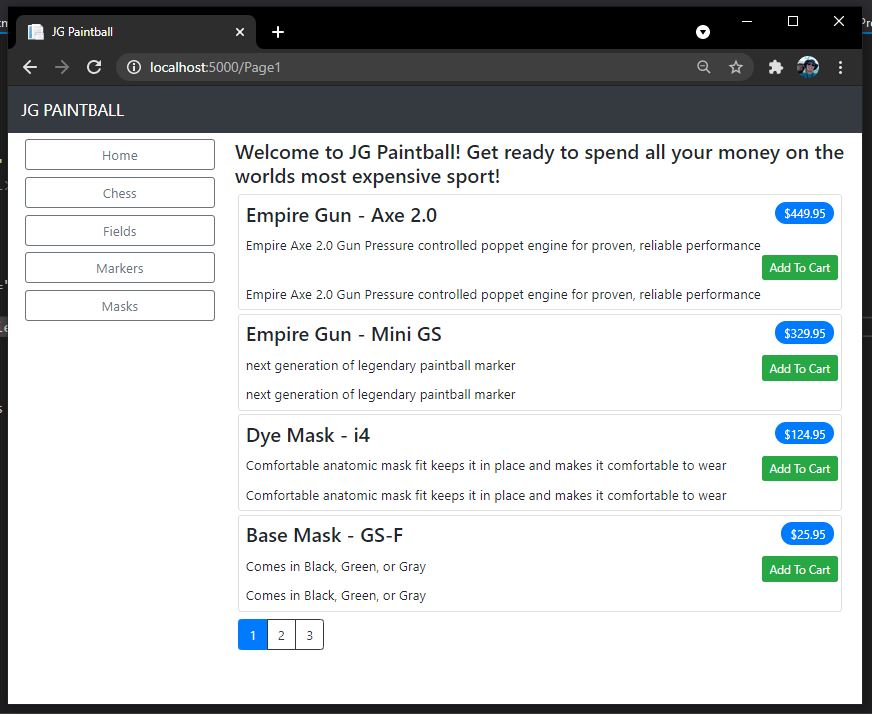
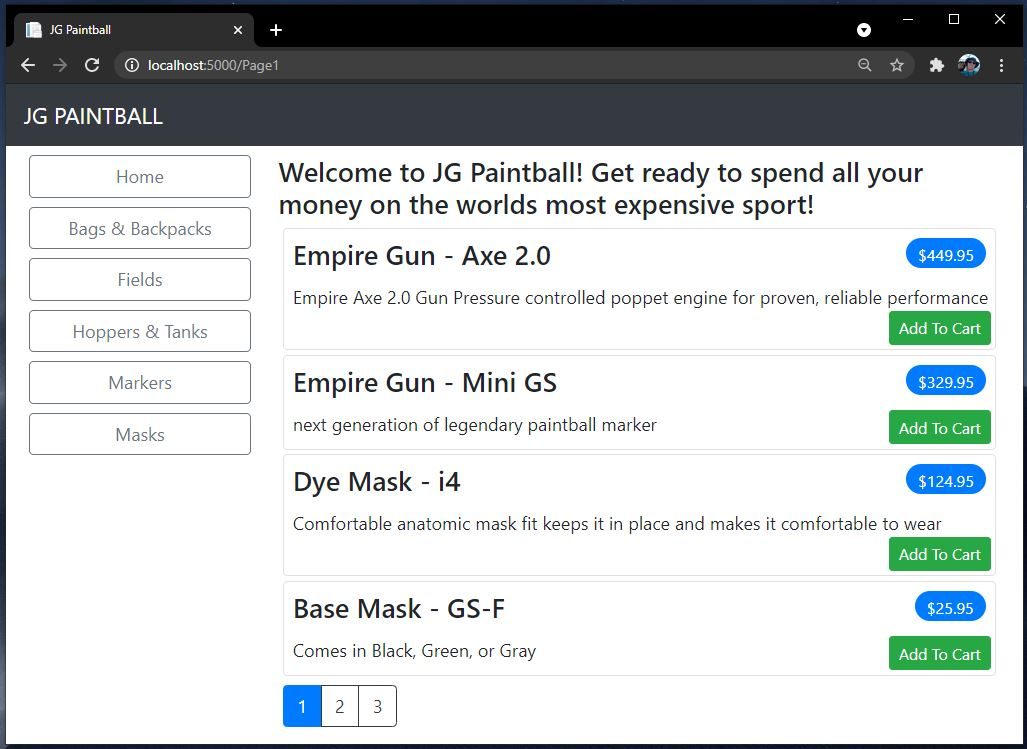
Updated some bugs with the layout and typos

Changed region(s): [[0.0, 0.0, 1.0, 1.0], [0.2167, 0.5854, 0.2477, 0.6162]]

diff --git a/JGPaintballShop/wwwroot/lib/twitter-bootstrap/js/bootstrap.bundle.js b/JGPaintballShop/wwwroot/lib/twitter-bootstrap/js/bootstrap.bundle.js
@@ -3299,7 +3299,8 @@
    * @argument {Object} data - The data object generated by update method
    * @argument {Object} options - Modifiers configuration and options
    * @argument {Number|String} options.offset=0
-   * The offset value as described in the modifier description
+   * The offset value as described in the modifier 
+
    * @returns {Object} The data object, properly modified
    */
   function offset(data, _ref) {

diff --git a/JGPaintballShop/Models/SeedData.cs b/JGPaintballShop/Models/SeedData.cs
@@ -25,6 +25,7 @@ namespace JGPaintballShop.Models
                     Category = "Markers",
                     Price = 449.95m
                 },
+
                 new Product
                 {
                     Name = "Empire Gun - Mini GS",
@@ -32,6 +33,7 @@ namespace JGPaintballShop.Models
                     Category = "Markers",
                     Price = 329.95m
                 },
+
                 new Product
                 {
                     Name = "Dye Mask - i4",
@@ -39,6 +41,7 @@ namespace JGPaintballShop.Models
                     Category = "Masks",
                     Price = 124.95m
                 },
+
                 new Product
                 {
                     Name = "Base Mask - GS-F",
@@ -46,6 +49,7 @@ namespace JGPaintballShop.Models
                     Category = "Masks",
                     Price = 25.95m
                 },
+
                 new Product
                 {
                     Name = "Speedball Field",
@@ -53,33 +57,62 @@ namespace JGPaintballShop.Models
                     Category = "Fields",
                     Price = 79500
                 },
+
                 new Product
                 {
-                    Name = "Thinking Cap",
-                    Description = "Improve brain efficiency by 75%",
-                    Category = "Chess",
-                    Price = 16
+                    Name = "Dye Navigator 2.50S Gear Bag",
+                    Description = "The Dye Navigator's unique design allows you to isolate your dirty field gear from your clean street clothes.",
+                    Category = "Bags & Backpacks",
+                    Price = 254.96m
                 },
+
                 new Product
                 {
-                    Name = "Unsteady Chair",
-                    Description = "Secretly give your opponent a disadvantage",
-                    Category = "Chess",
+                    Name = "Planet Eclipse GX2 Marker Pack",
+                    Description = "The Eclipse GX2 Marker Packs new secure barrel pocket opens up for complete accessibility and supports barrel sections up-to 11 Inches/28cm making it Shaft FL compatible.",
+                    Category = "Bags & Backpacks",
                     Price = 29.95m
                 },
+
                 new Product
                 {
-                    Name = "Human Chess Board",
-                    Description = "A fun game for the family",
-                    Category = "Chess",
-                    Price = 75
+                    Name = "HK Army expand Backpack/Gear Bag",
+                    Description = "The Expand Gear Bag capacity can be increased by 30% by simply fully opening the bottom compartment.",
+                    Category = "Bags & Backpacks",
+                    Price = 109.95m
                 },
+
+
                 new Product
                 {
-                    Name = "Bling-Bling King",
-                    Description = "Gold-plated, diamond-studded King",
-                    Category = "Chess",
-                    Price = 1200
+                    Name = "Ninja Flat Bottom Compressed Air Tank w/ Adjustable Regulator - 35/3000",
+                    Description = "The Ninja Paintball tank is one of the newest and most respected tanks in the paintball industry.",
+                    Category = "Hoppers & Tanks",
+                    Price = 64.95m
+                },
+
+                new Product
+                {
+                    Name = "Empire Mega Lite 68/4500 Compressed Air Paintball Tank",
+                    Description = "Empire Mega Lite Systems offer an affordable option to the player who wants to upgrade to a High Pressure Air system.",
+                    Category = "Hoppers & Tanks",
+                    Price = 149.95m
+                },
+
+                new Product
+                {
+                    Name = "Dye Rotor R2 Paintball Loader",
+                    Description = "After years of research and development and consulting with paintball’s top athletes, HK Army is proud to present you with the best loader experience paintball has to offer; The TFX.",
+                    Category = "Hoppers & Tanks",
+                    Price = 214.95m
+                },
+
+                new Product
+                {
+                    Name = "Empire Prophecy Z2 Paintball Loader",
+                    Description = "The Empire Prophecy tradition continues with the release of the Prophecy Z2 Paintball Loader.",
+                    Category = "Hoppers & Tanks",
+                    Price = 169.95m
                 }
                 );
                 context.SaveChanges();
